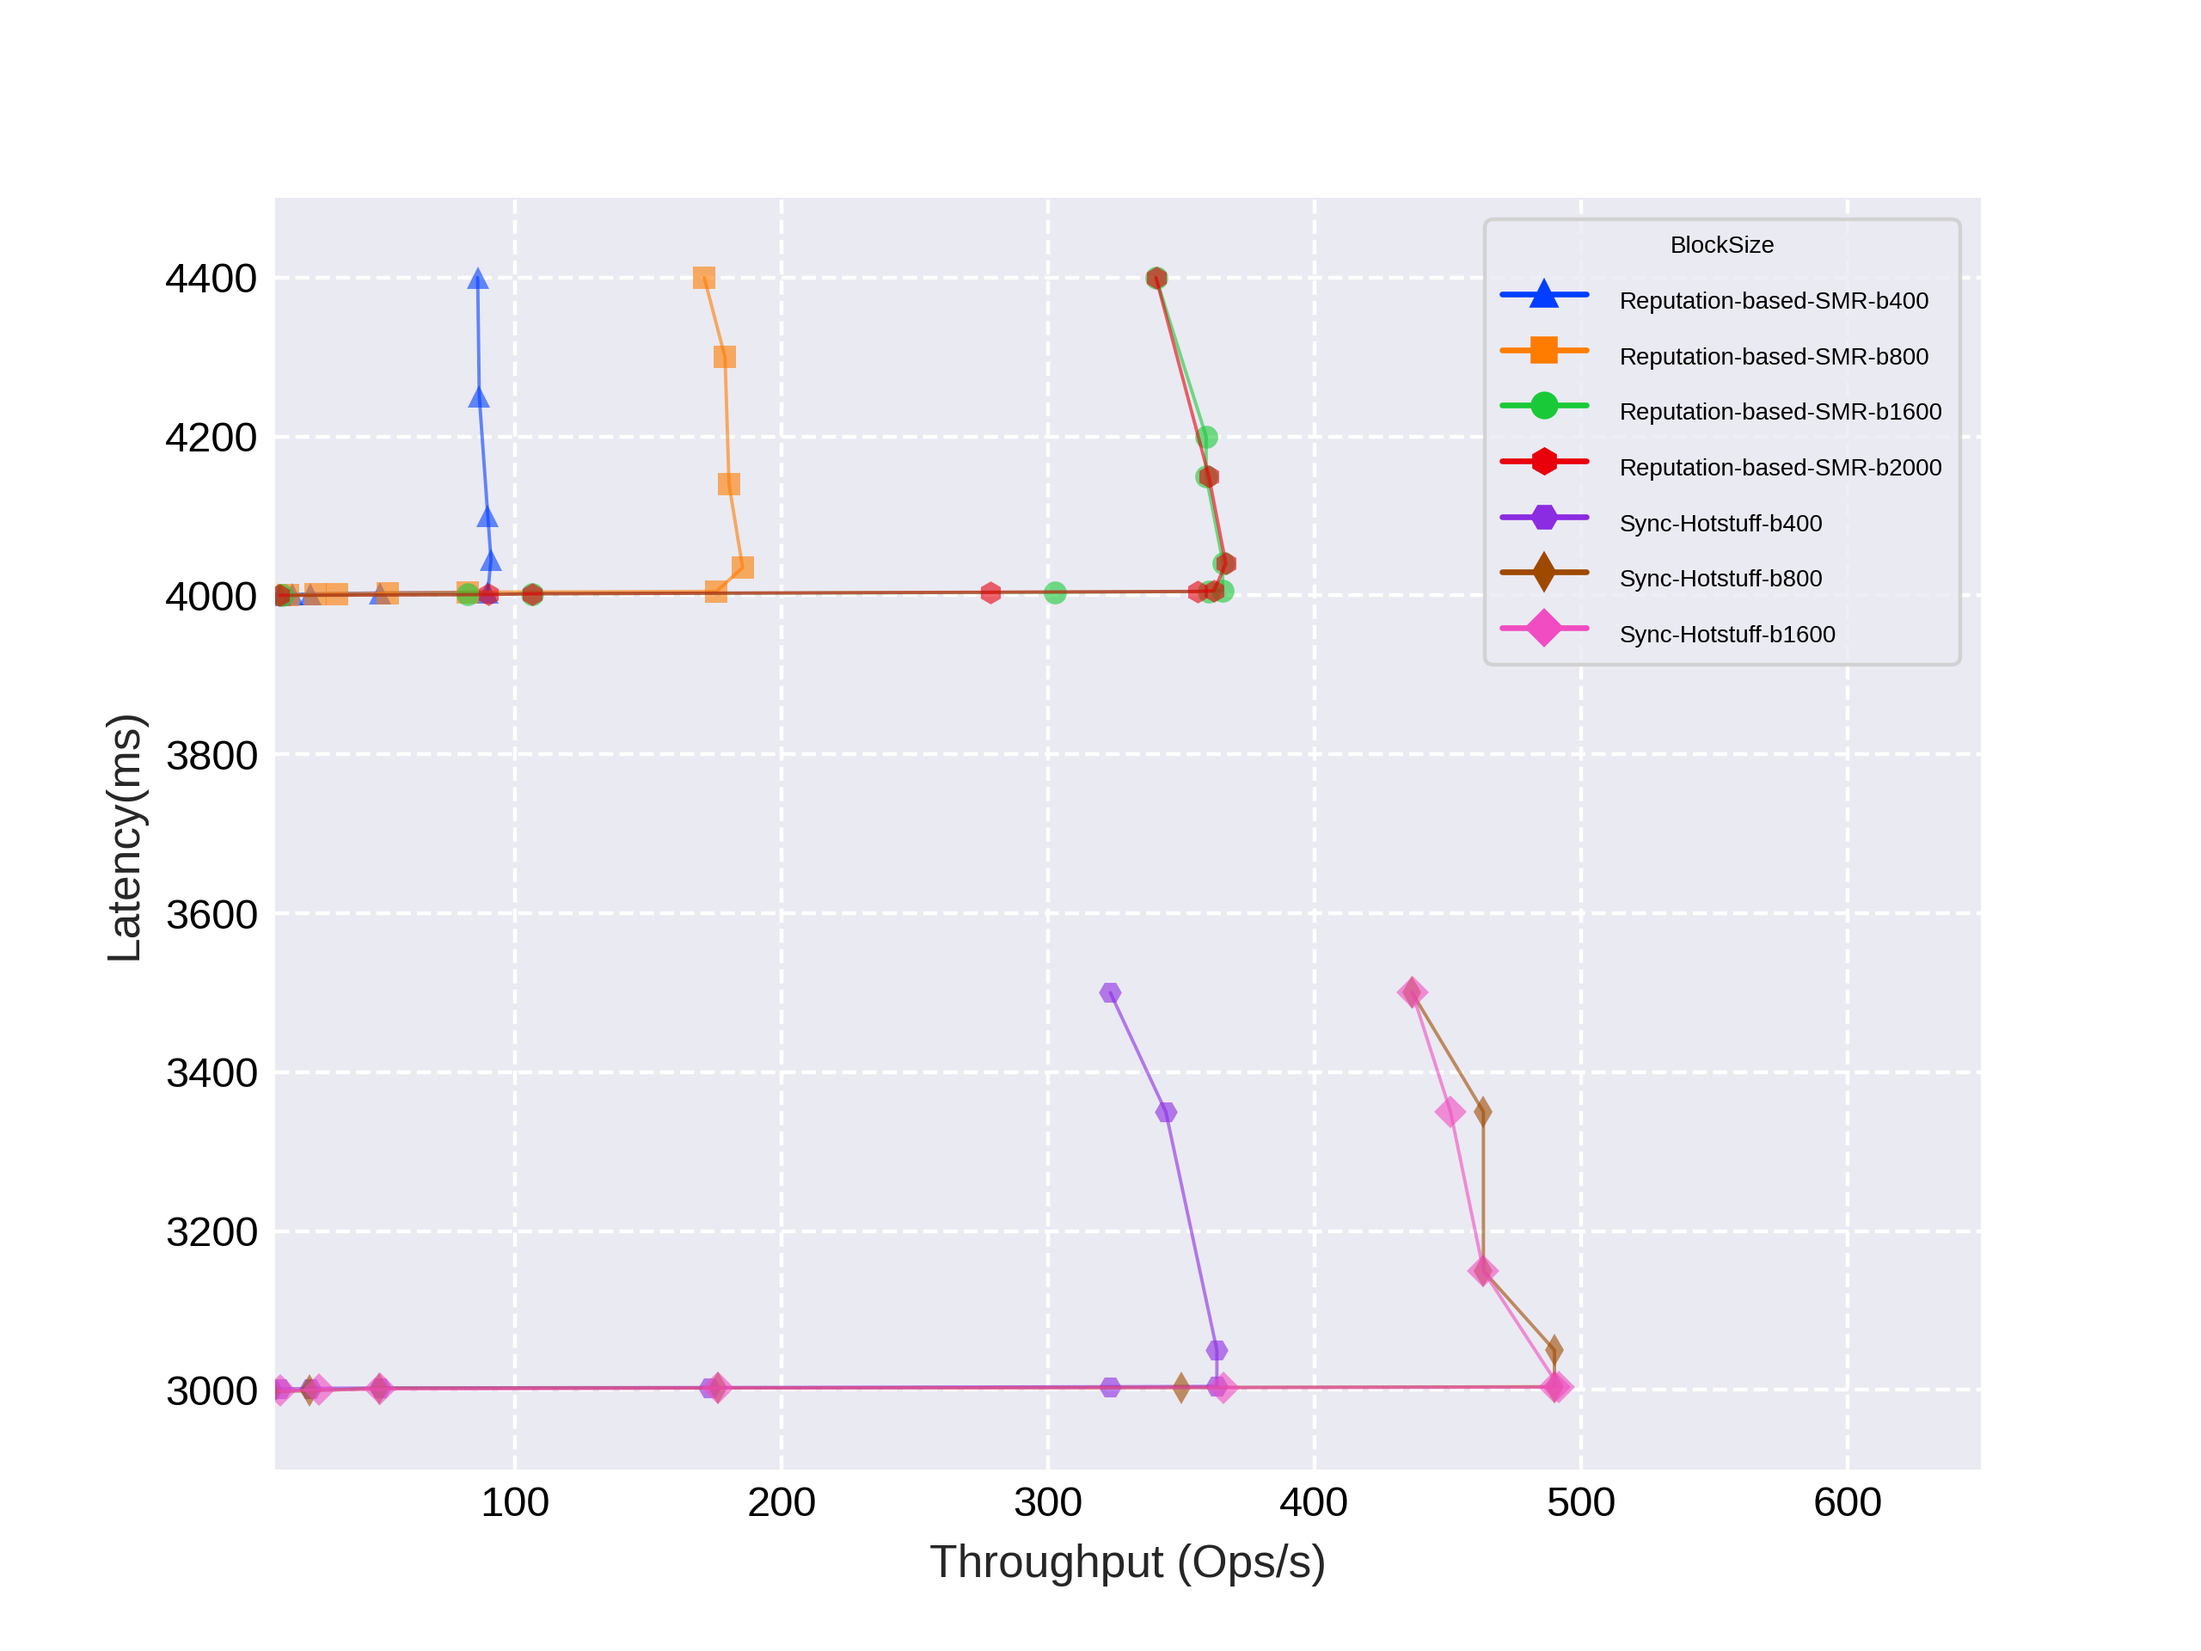
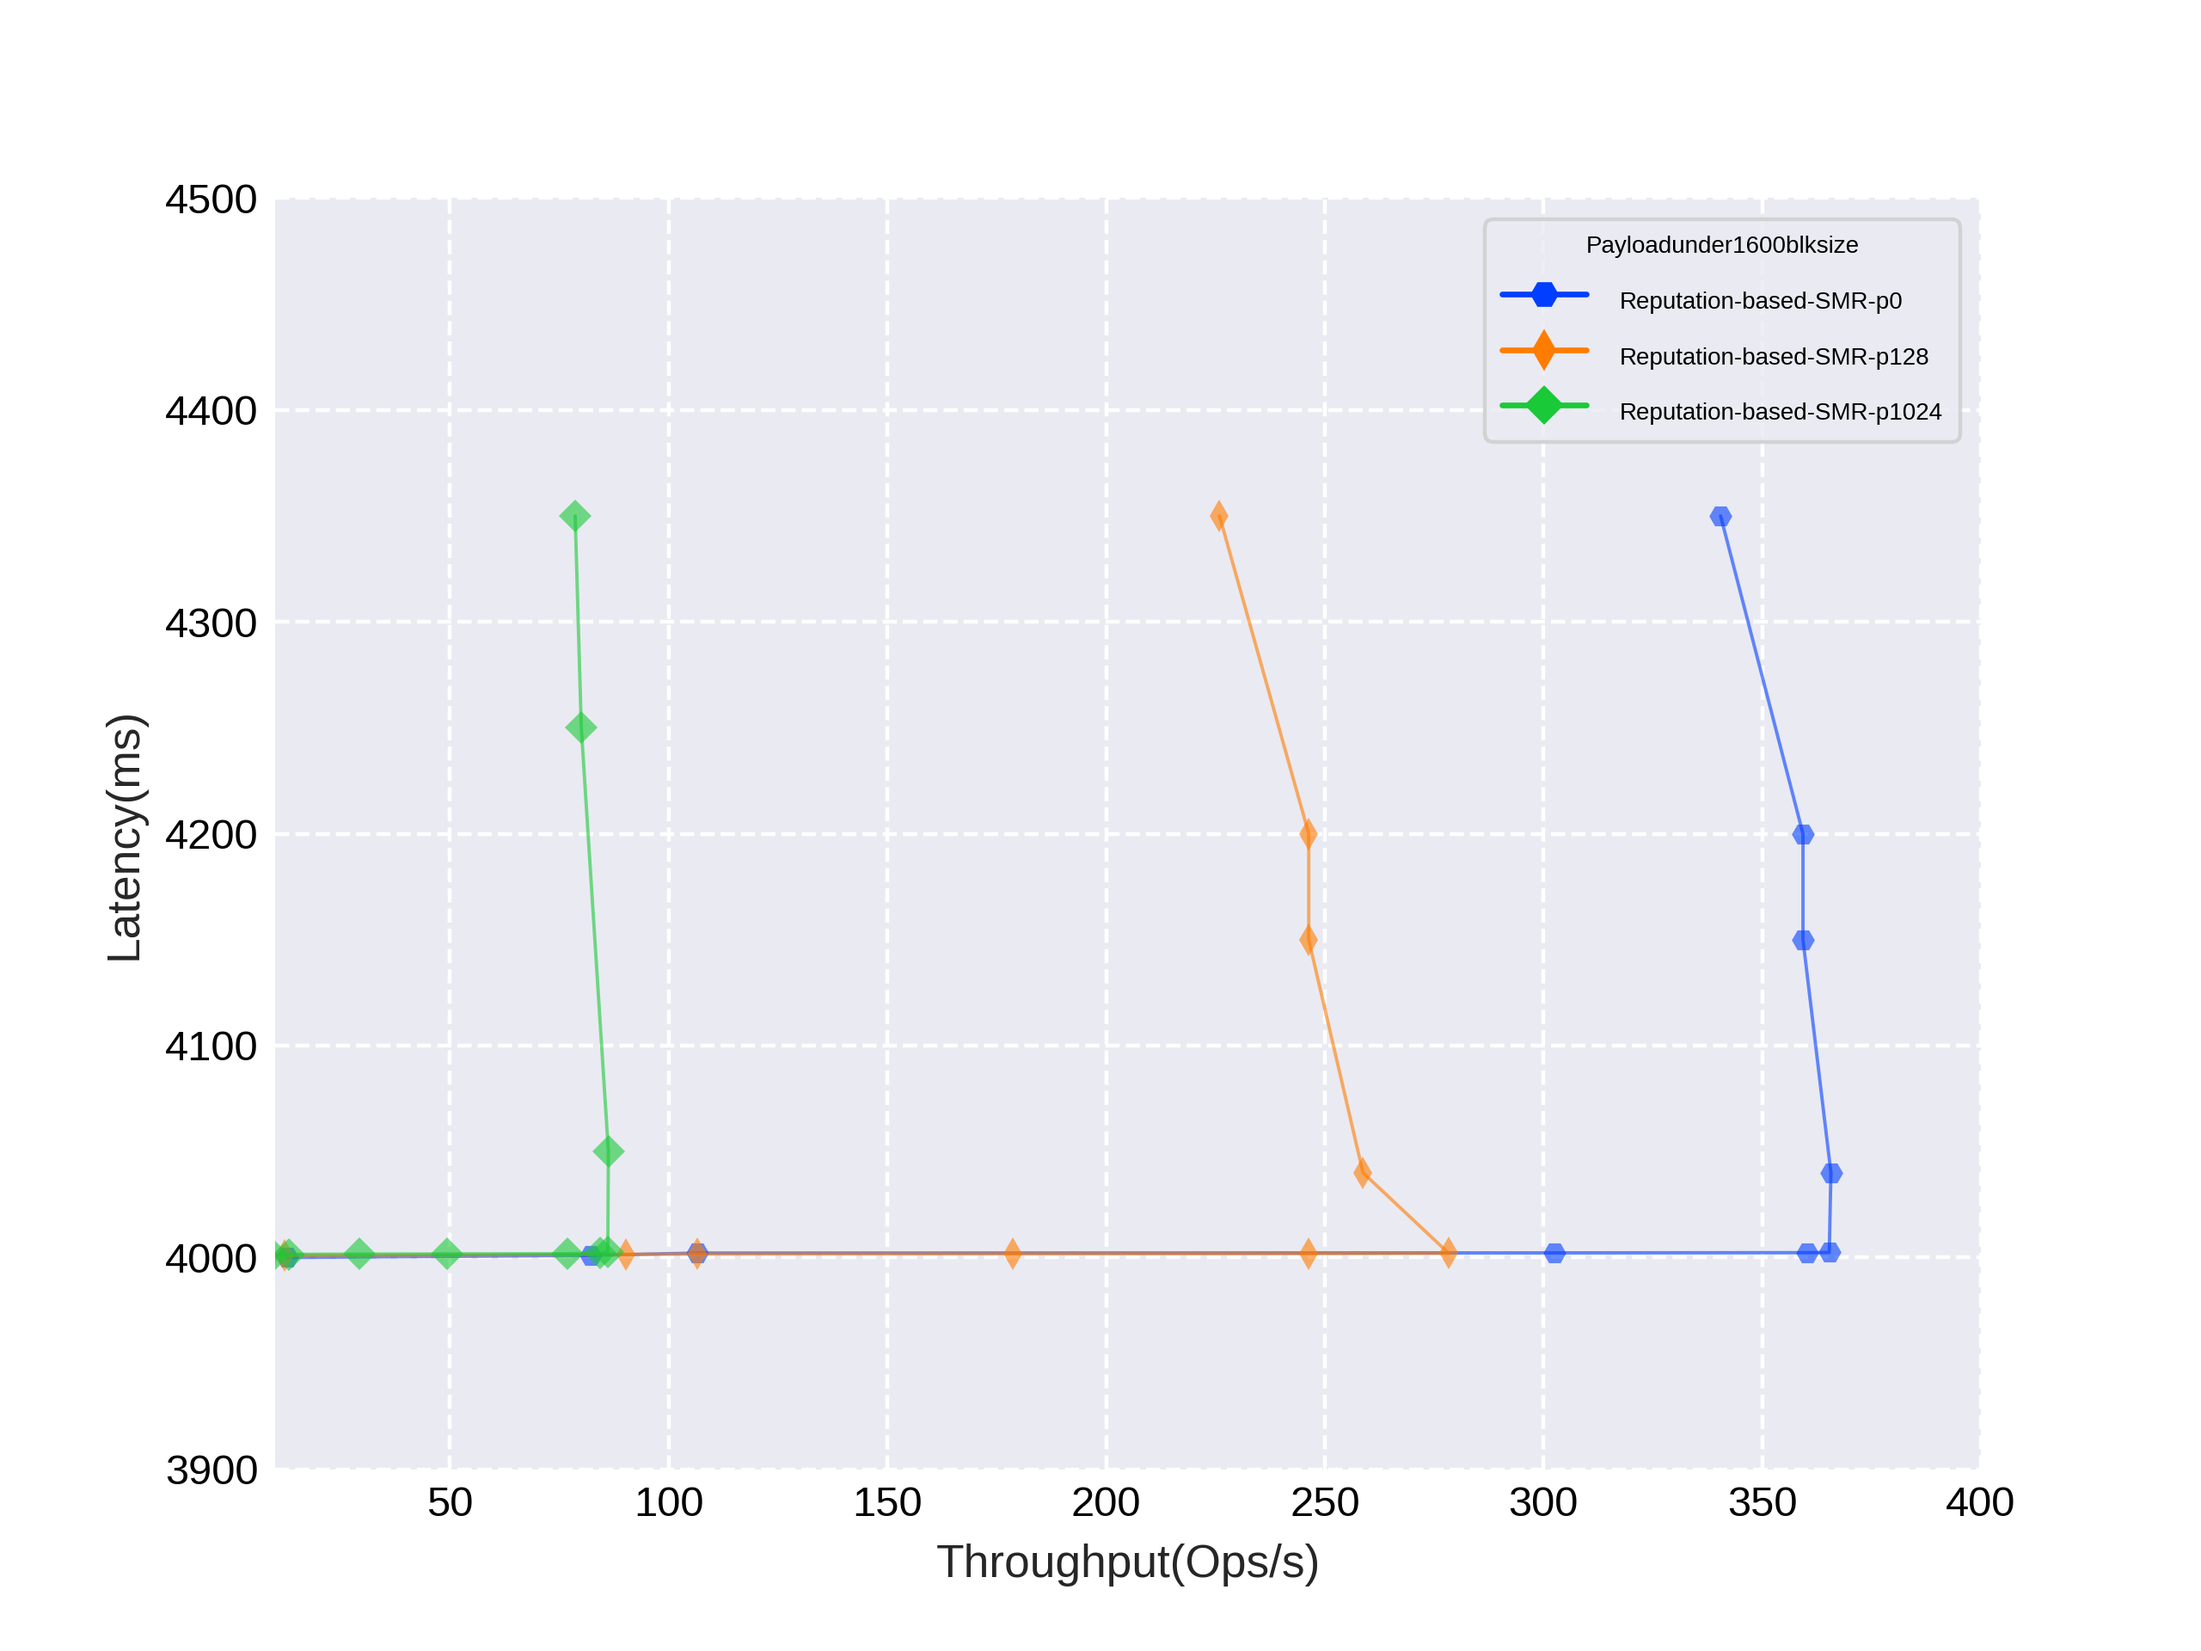
picturefinish

diff --git a/paperpicture/6.py b/paperpicture/6.py
@@ -15,11 +15,11 @@ import pandas as pd
 import matplotlib.pyplot as plt
 # Load an example datase
 filepath = '/root/github.com/Reputation-based-state-machine-replication-/paperpicture'
-fig_name = 'scatterplot1.png'
+fig_name = 'scatterplot6.png'
 fig_path = filepath + '/' + fig_name
 # Create a visualization
 # 加载数据
-flights=pd.read_csv('sa1.csv')
+flights=pd.read_csv('sa6.csv')
 flights.head()
 # 长型数据多折线图
 dict1 = {'axes.axisbelow': True,  #轴在图形的下面
@@ -59,14 +59,14 @@ sns.despine(fig=None, ax=None,
   offset=None, trim=False)
 palette = sns.color_palette("bright")
 sns.set_palette(palette)
-fig = sns.lineplot(data=flights,x='Throughput(Ops/s)',y='Latency(ms)',dashes=False,sort=True,
-errorbar=None,hue='BlockSize',style='BlockSize',markers=['^','s','o','h','H','d','D'] ,linewidth = 0.7,
-orient='y', markeredgecolor = 'none',alpha = 0.6)
+fig = sns.lineplot(data=flights,x='Byzantine nodes',y='Throughput(Ops/s)',dashes=False,sort=True,
+errorbar=None,hue='Misbehaviour',style='Misbehaviour',markers=['h','D','^','s','H'] ,linewidth = 0.7,
+orient='x', markeredgecolor = 'none',alpha = 0.6)
 #alpha 设置透明度
 #mark空心，mark见matlop
 #markerfacecolor='none'
-fig.set_xlim(10,650) 
-fig.set_ylim(2900,4500)
+fig.set_xlim(1,70) 
+fig.set_ylim(1,400)
 #设置x,y轴label大小
 # fig.xaxis.label.set_size(15)
 #科学计数法

diff --git a/paperpicture/5.py b/paperpicture/5.py
@@ -15,11 +15,11 @@ import pandas as pd
 import matplotlib.pyplot as plt
 # Load an example datase
 filepath = '/root/github.com/Reputation-based-state-machine-replication-/paperpicture'
-fig_name = 'scatterplot1.png'
+fig_name = 'scatterplot5.png'
 fig_path = filepath + '/' + fig_name
 # Create a visualization
 # 加载数据
-flights=pd.read_csv('sa1.csv')
+flights=pd.read_csv('sa5.csv')
 flights.head()
 # 长型数据多折线图
 dict1 = {'axes.axisbelow': True,  #轴在图形的下面
@@ -59,14 +59,14 @@ sns.despine(fig=None, ax=None,
   offset=None, trim=False)
 palette = sns.color_palette("bright")
 sns.set_palette(palette)
-fig = sns.lineplot(data=flights,x='Throughput(Ops/s)',y='Latency(ms)',dashes=False,sort=True,
-errorbar=None,hue='BlockSize',style='BlockSize',markers=['^','s','o','h','H','d','D'] ,linewidth = 0.7,
-orient='y', markeredgecolor = 'none',alpha = 0.6)
+fig = sns.lineplot(data=flights,x='Byzantine nodes',y='Latency(ms)',dashes=False,sort=True,
+errorbar=None,hue='Misbehaviour',style='Misbehaviour',markers=['s','o','h','H','^'] ,linewidth = 0.7,
+orient='x', markeredgecolor = 'none',alpha = 0.6)
 #alpha 设置透明度
 #mark空心，mark见matlop
 #markerfacecolor='none'
-fig.set_xlim(10,650) 
-fig.set_ylim(2900,4500)
+fig.set_xlim(1,70) 
+fig.set_ylim(4000,6500)
 #设置x,y轴label大小
 # fig.xaxis.label.set_size(15)
 #科学计数法

diff --git a/paperpicture/3.py b/paperpicture/3.py
@@ -15,11 +15,11 @@ import pandas as pd
 import matplotlib.pyplot as plt
 # Load an example datase
 filepath = '/root/github.com/Reputation-based-state-machine-replication-/paperpicture'
-fig_name = 'scatterplot1.png'
+fig_name = 'scatterplot3.png'
 fig_path = filepath + '/' + fig_name
 # Create a visualization
 # 加载数据
-flights=pd.read_csv('sa1.csv')
+flights=pd.read_csv('sa3.csv')
 flights.head()
 # 长型数据多折线图
 dict1 = {'axes.axisbelow': True,  #轴在图形的下面
@@ -59,14 +59,14 @@ sns.despine(fig=None, ax=None,
   offset=None, trim=False)
 palette = sns.color_palette("bright")
 sns.set_palette(palette)
-fig = sns.lineplot(data=flights,x='Throughput(Ops/s)',y='Latency(ms)',dashes=False,sort=True,
-errorbar=None,hue='BlockSize',style='BlockSize',markers=['^','s','o','h','H','d','D'] ,linewidth = 0.7,
-orient='y', markeredgecolor = 'none',alpha = 0.6)
+fig = sns.lineplot(data=flights,x='Byzantine nodes',y='Throughput(Ops/s)',dashes=False,sort=True,
+errorbar=None,hue='SMR protocol',style='SMR protocol',markers=['h','D','^','s'] ,linewidth = 0.7,
+orient='x', markeredgecolor = 'none',alpha = 0.6)
 #alpha 设置透明度
 #mark空心，mark见matlop
 #markerfacecolor='none'
-fig.set_xlim(10,650) 
-fig.set_ylim(2900,4500)
+fig.set_xlim(1,70) 
+fig.set_ylim(1,500)
 #设置x,y轴label大小
 # fig.xaxis.label.set_size(15)
 #科学计数法

diff --git a/paperpicture/4.py b/paperpicture/4.py
@@ -15,11 +15,11 @@ import pandas as pd
 import matplotlib.pyplot as plt
 # Load an example datase
 filepath = '/root/github.com/Reputation-based-state-machine-replication-/paperpicture'
-fig_name = 'scatterplot1.png'
+fig_name = 'scatterplot4.png'
 fig_path = filepath + '/' + fig_name
 # Create a visualization
 # 加载数据
-flights=pd.read_csv('sa1.csv')
+flights=pd.read_csv('sa4.csv')
 flights.head()
 # 长型数据多折线图
 dict1 = {'axes.axisbelow': True,  #轴在图形的下面
@@ -59,14 +59,14 @@ sns.despine(fig=None, ax=None,
   offset=None, trim=False)
 palette = sns.color_palette("bright")
 sns.set_palette(palette)
-fig = sns.lineplot(data=flights,x='Throughput(Ops/s)',y='Latency(ms)',dashes=False,sort=True,
-errorbar=None,hue='BlockSize',style='BlockSize',markers=['^','s','o','h','H','d','D'] ,linewidth = 0.7,
-orient='y', markeredgecolor = 'none',alpha = 0.6)
+fig = sns.lineplot(data=flights,x='Byzantine nodes',y='Latency(ms)',dashes=False,sort=True,
+errorbar=None,hue='SMR protocol',style='SMR protocol',markers=['s','o','h','H'] ,linewidth = 0.7,
+orient='x', markeredgecolor = 'none',alpha = 0.6)
 #alpha 设置透明度
 #mark空心，mark见matlop
 #markerfacecolor='none'
-fig.set_xlim(10,650) 
-fig.set_ylim(2900,4500)
+fig.set_xlim(1,70) 
+fig.set_ylim(3000,9000)
 #设置x,y轴label大小
 # fig.xaxis.label.set_size(15)
 #科学计数法

diff --git a/paperpicture/2.py b/paperpicture/2.py
@@ -19,7 +19,7 @@ fig_name = 'scatterplot2.png'
 fig_path = filepath + '/' + fig_name
 # Create a visualization
 # 加载数据
-flights=pd.read_csv('sa1.csv')
+flights=pd.read_csv('sa2.csv')
 flights.head()
 # 长型数据多折线图
 dict1 = {'axes.axisbelow': True,  #轴在图形的下面
@@ -59,14 +59,14 @@ sns.despine(fig=None, ax=None,
   offset=None, trim=False)
 palette = sns.color_palette("bright")
 sns.set_palette(palette)
-fig = sns.lineplot(data=flights,x='Throughput (Ops/s)',y='Latency(ms)',dashes=False,sort=True,
-errorbar=None,hue='BlockSize',style='BlockSize',markers=['^','s','o','h','H','d','D'] ,linewidth = 0.7,
+fig = sns.lineplot(data=flights,x='Throughput(Ops/s)',y='Latency(ms)',dashes=False,sort=True,
+errorbar=None,hue='Payloadunder1600blksize',style='Payloadunder1600blksize',markers=['H','d','D'] ,linewidth = 0.7,
 orient='y', markeredgecolor = 'none',alpha = 0.6)
 #alpha 设置透明度
 #mark空心，mark见matlop
 #markerfacecolor='none'
-fig.set_xlim(10,650) 
-fig.set_ylim(2900,4500)
+fig.set_xlim(10,400) 
+fig.set_ylim(3900,4500)
 #设置x,y轴label大小
 # fig.xaxis.label.set_size(15)
 #科学计数法
